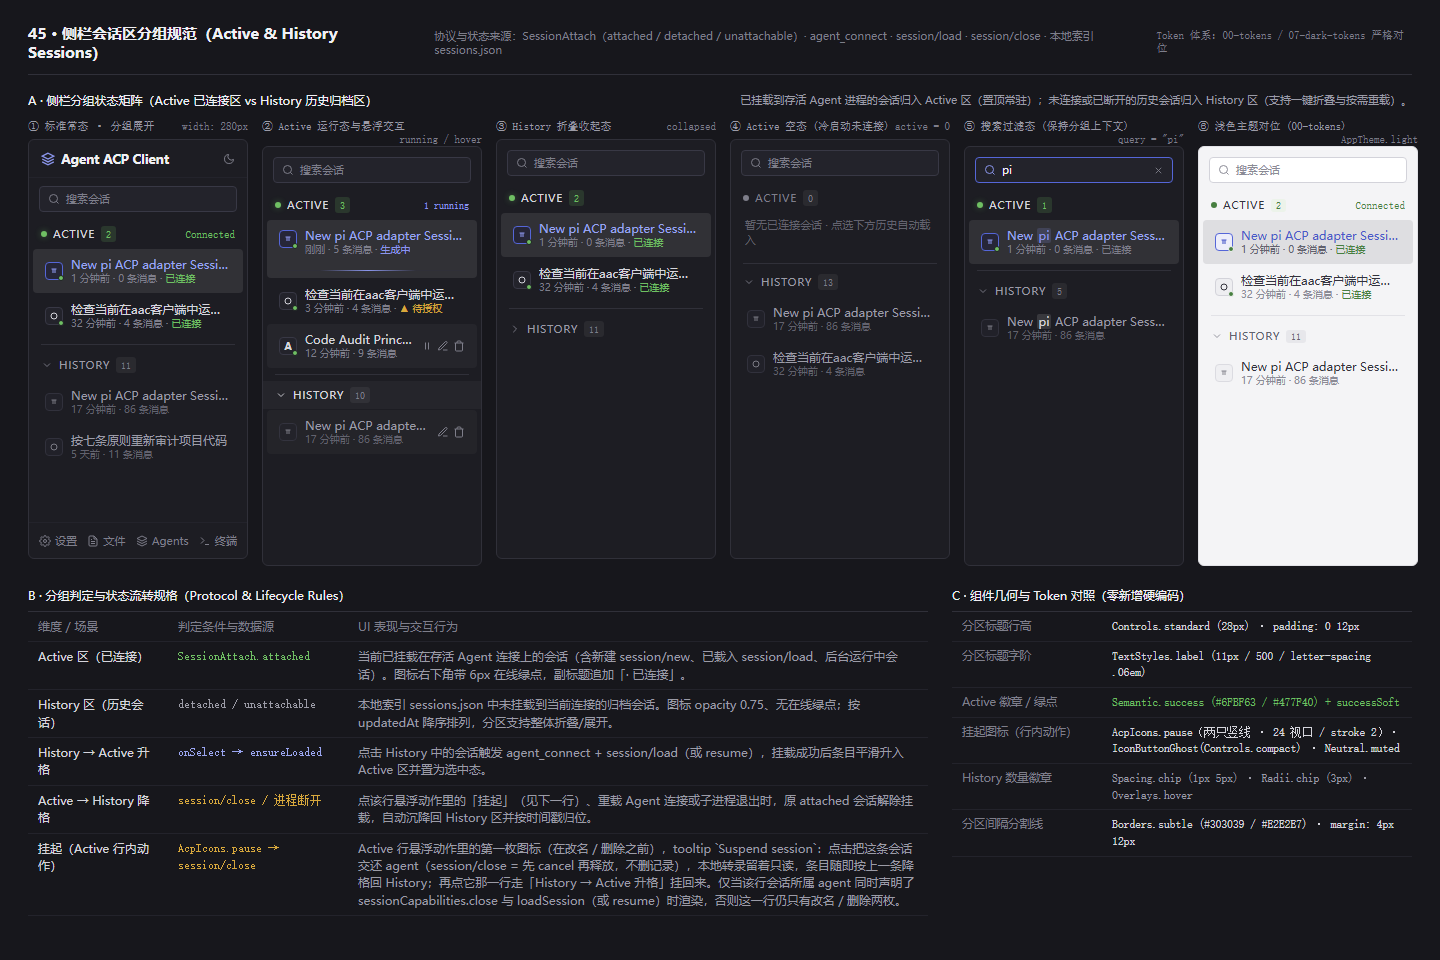
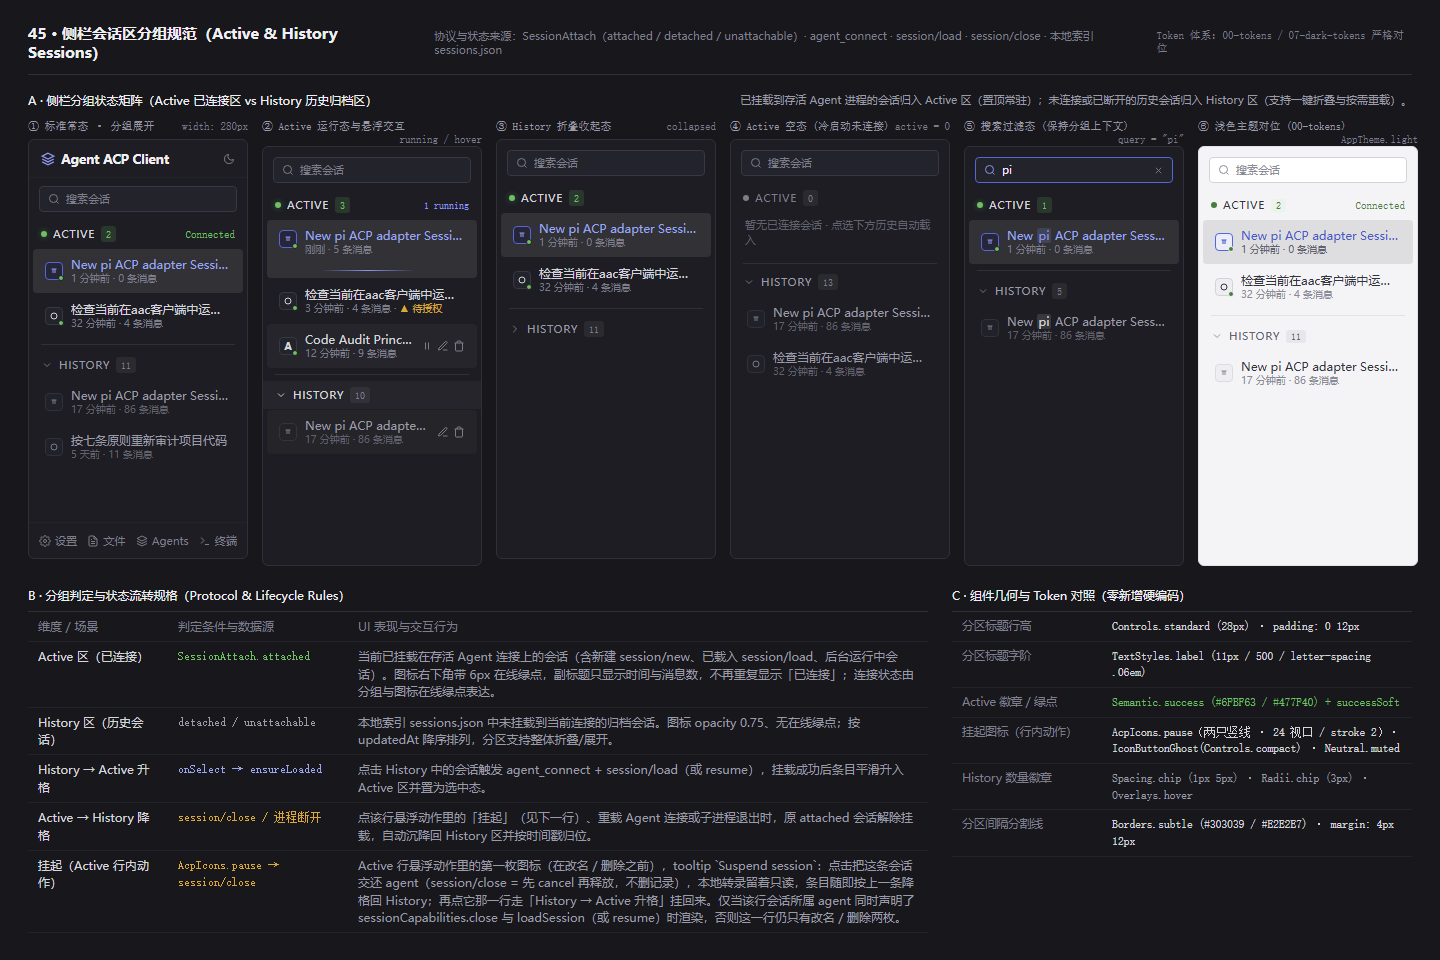
ux(sidebar): remove redundant Active session status labels

diff --git a/design/round-design/45-sidebar-active-history.dc.html b/design/round-design/45-sidebar-active-history.dc.html
@@ -206,7 +206,7 @@
               </div>
               <div style="flex:1;min-width:0">
                 <div style="font-size:12px;font-weight:500;color:#9AA5F0;white-space:nowrap;overflow:hidden;text-overflow:ellipsis">New pi ACP adapter Session</div>
-                <div style="font-size:10px;color:#7E7E8A" class="tabular">1 分钟前 · 0 条消息 · <span style="color:#6FBF63">已连接</span></div>
+                <div style="font-size:10px;color:#7E7E8A" class="tabular">1 分钟前 · 0 条消息</div>
               </div>
             </div>
             <!-- Active 项 2 -->
@@ -217,7 +217,7 @@
               </div>
               <div style="flex:1;min-width:0">
                 <div style="font-size:12px;color:#D5D5DC;white-space:nowrap;overflow:hidden;text-overflow:ellipsis">检查当前在aac客户端中运行的</div>
-                <div style="font-size:10px;color:#7E7E8A" class="tabular">32 分钟前 · 4 条消息 · <span style="color:#6FBF63">已连接</span></div>
+                <div style="font-size:10px;color:#7E7E8A" class="tabular">32 分钟前 · 4 条消息</div>
               </div>
             </div>
 
@@ -289,7 +289,7 @@
               </div>
               <div style="flex:1;min-width:0;align-self:flex-start;margin-top:8px">
                 <div style="font-size:12px;font-weight:500;color:#9AA5F0;white-space:nowrap;overflow:hidden;text-overflow:ellipsis">New pi ACP adapter Session</div>
-                <div style="font-size:10px;color:#7E7E8A" class="tabular">刚刚 · 5 条消息 · <span style="color:#8B96EC">生成中</span></div>
+                <div style="font-size:10px;color:#7E7E8A" class="tabular">刚刚 · 5 条消息</div>
               </div>
               <div class="sweep-line"></div>
             </div>
@@ -375,7 +375,7 @@
               </div>
               <div style="flex:1;min-width:0">
                 <div style="font-size:12px;font-weight:500;color:#9AA5F0;white-space:nowrap;overflow:hidden;text-overflow:ellipsis">New pi ACP adapter Session</div>
-                <div style="font-size:10px;color:#7E7E8A" class="tabular">1 分钟前 · 0 条消息 · <span style="color:#6FBF63">已连接</span></div>
+                <div style="font-size:10px;color:#7E7E8A" class="tabular">1 分钟前 · 0 条消息</div>
               </div>
             </div>
             <!-- Active 项 2 -->
@@ -386,7 +386,7 @@
               </div>
               <div style="flex:1;min-width:0">
                 <div style="font-size:12px;color:#D5D5DC;white-space:nowrap;overflow:hidden;text-overflow:ellipsis">检查当前在aac客户端中运行的</div>
-                <div style="font-size:10px;color:#7E7E8A" class="tabular">32 分钟前 · 4 条消息 · <span style="color:#6FBF63">已连接</span></div>
+                <div style="font-size:10px;color:#7E7E8A" class="tabular">32 分钟前 · 4 条消息</div>
               </div>
             </div>
 
@@ -480,7 +480,7 @@
               </div>
               <div style="flex:1;min-width:0">
                 <div style="font-size:12px;font-weight:500;color:#9AA5F0;white-space:nowrap;overflow:hidden;text-overflow:ellipsis">New <span style="color:#8B96EC;background:rgba(139,150,236,0.18);border-radius:2px;padding:0 2px">pi</span> ACP adapter Session</div>
-                <div style="font-size:10px;color:#7E7E8A" class="tabular">1 分钟前 · 0 条消息 · 已连接</div>
+                <div style="font-size:10px;color:#7E7E8A" class="tabular">1 分钟前 · 0 条消息</div>
               </div>
             </div>
 
@@ -533,7 +533,7 @@
               </div>
               <div style="flex:1;min-width:0">
                 <div style="font-size:12px;font-weight:500;color:#4A59C9;white-space:nowrap;overflow:hidden;text-overflow:ellipsis">New pi ACP adapter Session</div>
-                <div style="font-size:10px;color:#62626E" class="tabular">1 分钟前 · 0 条消息 · <span style="color:#477F40">已连接</span></div>
+                <div style="font-size:10px;color:#62626E" class="tabular">1 分钟前 · 0 条消息</div>
               </div>
             </div>
             <!-- Active 项 2 -->
@@ -544,7 +544,7 @@
               </div>
               <div style="flex:1;min-width:0">
                 <div style="font-size:12px;color:#33333D;white-space:nowrap;overflow:hidden;text-overflow:ellipsis">检查当前在aac客户端中运行的</div>
-                <div style="font-size:10px;color:#8B8B96" class="tabular">32 分钟前 · 4 条消息 · <span style="color:#477F40">已连接</span></div>
+                <div style="font-size:10px;color:#8B8B96" class="tabular">32 分钟前 · 4 条消息</div>
               </div>
             </div>
 
@@ -585,7 +585,7 @@
 
         <div class="spec-cell" style="color:#D5D5DC">Active 区（已连接）</div>
         <div class="spec-cell mono" style="color:#6FBF63">SessionAttach.attached</div>
-        <div class="spec-cell" style="color:#9B9BA6">当前已挂载在存活 Agent 连接上的会话（含新建 session/new、已载入 session/load、后台运行中会话）。图标右下角带 6px 在线绿点，副标题追加「· 已连接」。</div>
+        <div class="spec-cell" style="color:#9B9BA6">当前已挂载在存活 Agent 连接上的会话（含新建 session/new、已载入 session/load、后台运行中会话）。图标右下角带 6px 在线绿点，副标题只显示时间与消息数，不再重复显示「已连接」；连接状态由分组与图标在线绿点表达。</div>
 
         <div class="spec-cell" style="color:#D5D5DC">History 区（历史会话）</div>
         <div class="spec-cell mono" style="color:#9B9BA6">detached / unattachable</div>

diff --git a/test/ui/sidebar_active_history_test.dart b/test/ui/sidebar_active_history_test.dart
@@ -1,6 +1,6 @@
 // 画板 45 · 侧栏 Active（已连接）与 History（历史会话）分组展示及折叠收纳测试。
 // 守住核心契约：
-// 1. 明确区分 ACTIVE 与 HISTORY 两大分组，连接状态在线绿标与「已连接」文字；
+// 1. 明确区分 ACTIVE 与 HISTORY 两大分组，连接状态由在线绿标表达，行内不重复「已连接」文字；
 // 2. HISTORY 支持点击一键折叠/展开；折叠状态下绝无“已折叠”多余文字；
 // 3. 搜索过滤保持分组拓扑上下文；
 // 4. 冷启动/未连接空态轻量提示；
@@ -74,8 +74,9 @@ void main() {
 
       // ACTIVE 数量为 1，HISTORY 数量为 1
       expect(find.text('1'), findsNWidgets(2));
-      // 活跃项副标题包含「已连接」
-      expect(find.textContaining('已连接'), findsOneWidget);
+      // 活跃项副标题不重复「已连接」，保留时间与消息数
+      expect(find.textContaining('已连接'), findsNothing);
+      expect(find.text('5 分钟前 · 2 条消息'), findsNWidgets(2));
       // 分组头包含 Connected 提示
       expect(find.text('Connected'), findsOneWidget);
     });
@@ -278,8 +279,9 @@ void main() {
         matching: find.byWidgetPredicate((w) => w is RichText && w.text.toPlainText().contains('已连接')),
       );
 
-      // 列表中显示已连接
-      expect(rowConnectedText, findsOneWidget);
+      // 挂载后行内不重复显示已连接，在线标识仍由 attached 驱动
+      expect(rowConnectedText, findsNothing);
+      expect(tester.widgetList<SidebarSessionRow>(find.byType(SidebarSessionRow)).single.attached, isTrue);
 
       // 关闭会话后，解除挂载，沉降回 History 区，Active 区变为 0 态
       await c.session.closeSession();

diff --git a/lib/ui/shell/sidebar.dart b/lib/ui/shell/sidebar.dart
@@ -543,7 +543,7 @@ class SidebarSessionRow extends StatelessWidget {
   final SidebarSession session;
   final DateTime now;
 
-  /// 画板 45：会话是否已挂载到存活 Agent 连接上（图标带在线绿点，副标题带「· 已连接」）。
+  /// 画板 45：会话是否已挂载到存活 Agent 连接上（图标带在线绿点，副标题只显示时间与消息数）。
   final bool attached;
 
   final String query;
@@ -698,10 +698,6 @@ class SidebarSessionRow extends StatelessWidget {
                     style: t.TextStyles.meta.copyWith(fontFeatures: const <FontFeature>[FontFeature.tabularFigures()]),
                     children: <InlineSpan>[
                       TextSpan(text: '${relativeTime(session.updatedAt, now: now)} · ${session.messageCount} 条消息'),
-                      if (attached) ...<InlineSpan>[
-                        const TextSpan(text: ' · '),
-                        TextSpan(text: '已连接', style: TextStyle(color: t.Semantic.success)),
-                      ],
                     ],
                   ),
                   maxLines: 1,

diff --git a/iterations/iteration-21.md b/iterations/iteration-21.md
@@ -1,0 +1,21 @@
+# Iteration 21 — Active 会话行精简连接状态文案
+
+> 状态：待合并　起止：2026-09-30 – 待定　基线：`main` = `41ba70c`
+
+## 工作项
+
+| # | 类型 | 工作项 | 来源 | 分支 → 合并提交 | 验证 | 审查 | 状态 |
+|---|---|---|---|---|---|---|---|
+| 1 | ux | Active 会话行移除「· 已连接」，同步画板 45 深浅色 / 搜索样张、规范说明与 PNG；运行态样张同时移除「· 生成中」（客户端原本无此文案）；保留 logo 在线绿点、Active 分组和 Connected 提示 | 所有者 2026-09-30 | `ux/active-session-meta` → 待定 | 622 项 Flutter 测试全过；Rust / 静态门全过；正式源码分析无 error / warning（全仓分析受临时文件阻断，见备注） | 2 轮，均 0 findings | 待合并 |
+
+## 收口
+
+- 构建 / 手测：画板 45 已通过 `render-design.ps1 -Only 45` 重渲并目视确认（1440 × 960）；未执行 release 构建与客户端手测，待所有者安排合并 / 构建；本次不发版。
+- 设计稿补注记：画板与实现同步，无新增偏离。
+
+## 备注
+
+- 修改已有分组与挂载生命周期测试，确认行内文案删除后，分组、消息元信息与 attached 标识保持正确。
+- 验证：`scripts/validate.ps1` 的 Rust build / test / clippy 与所有静态契约门通过，Flutter 全量测试 **622 项全过**。全仓 `flutter analyze --no-fatal-infos` 因另一个会话的 gitignored `ai-output/temporary/cross_agent_analysis_test.dart:8` 的 `unused_import` warning 返回 1（该文件于验证期间出现，不属于本次 diff，未修改）；随后以相同口径运行 `flutter analyze --no-pub --no-fatal-infos lib test`，退出码 0、无 error / warning，20 条既有 info。
+- 首次验证未继承镜像环境而停在下载依赖；使用 `PUB_HOSTED_URL=https://pub.flutter-io.cn` 与 `FLUTTER_STORAGE_BASE_URL=https://storage.flutter-io.cn` 重跑，未改 lockfile 或依赖版本。
+- 独立审查：Cursor CLI + `grok-4.7-high-fast`，`-Scope worktree`；R1 `20260930-172616-review.out.md` 与最终补稿后 R2 `20260930-173244-review.out.md` 均 **0 findings**，无采纳整改。合并时机由所有者决定。

diff --git a/iterations/README.md b/iterations/README.md
@@ -93,5 +93,6 @@
 | 18 | 2026-09-29 起 | 内存冲到 100% 的两处按帧重算：工具卡内容里的 `image` 块不再每帧重解 base64（`Image.memory` 的缓存键跟着 `bytes` 的同一性走）、流量面板的缩进 JSON 改按需算 + 记忆化 | 已合并（未构建；连同已完成的 iter-17 一起落 main） | [`iteration-18.md`](iteration-18.md) |
 | 19 | 2026-09-29 起 | 侧栏 Active 行的「挂起」：把会话交给 agent 的 `session/close`（转录留着只读、不删），它从 Active 沉到 History，再点 History 那一行挂回来（BACKLOG P1「会话菜单的 Resume / Close 没有入口」收尾） | 已合并（未构建；审查 R1–R3：0 条 high；回补画板那轮免审—所有者指定） | [`iteration-19.md`](iteration-19.md) |
 | 20 | 2026-09-29 起 | 去 Claude Code 绑定：规范正本 `CLAUDE.md` → `AGENTS.md`（`CLAUDE.md` 退成指针）、审查执行器改「cursor 硬失败就停下喊人」、上一代 agent 的项目记忆整批内联到 `docs/agent-notes/` | 已合并（未构建；`f752859`；免审—所有者指定：纯文档与注释） | [`iteration-20.md`](iteration-20.md) |
+| 21 | 2026-09-30 起 | Active 会话行移除重复的「已连接」文案，画板 45 同时移除「生成中」 | 待合并（2 轮审查均 0 findings） | [`iteration-21.md`](iteration-21.md) |
 
 **在本流程之前开工的那一批仍按轮次走完**：`rounds/round-1.4.1`（v1.4.0 之后六批 `main` 改动的复审与整改，2026-09-22 发 v1.4.1）在本流程建立之前就已立项并写好任务卡，按原样以轮次收口、登记在 `ROUNDS.md` § 7 的进度表里，不回改编号。按本文 § 0 的判据，这种「一批缺陷的集中复审与整改」以后属于迭代（类型 `fix`）；`ROUNDS.md` § 7 里被封存的是「main 直改」那一行，轮次自己的行照旧。

diff --git a/design/README.md b/design/README.md
@@ -99,6 +99,8 @@
 - **实现先行、设计稿待补** → **已整体改为不补稿**（所有者裁定 2026-09-20）：这些条目连同结论移到 [`DIVERGENCE.md`](DIVERGENCE.md)，按「实现已超越画板 / 画板画错 / 实现有意少做」分三节记着，那几处**以实现为准、PNG 不再是它们的验收基准**（AGENTS.md 规则 3）。看画板之前先看那份清单。
 - 2026-09-17 新增画板 05「转场规格」，并给画板 00 的动效小节补 6 个值。起因是新建 / 切换会话与重载 agent 都是硬切、重载的等待期界面完全不动；原来全套动效资产只有两行时长，不足以实现。简报 `design/round-design/input/revision-02.md`。**画板 05 是纯静态规格图**：分帧只作示意，曲线与数值一律以规格表为准（例：A 组 `t=100ms` 那帧画的是视觉中点，按 `motion.ease` 实际已走完约 87%）。画板 00 的改动只在动效小节，`$preview` 高度由 924 收到 900（与 frame 一致），其余区域零改动。
 
+- 2026-09-30 修订画板 45：Active 会话行副标题移除「· 已连接」，深色 / 浅色与搜索样张同步；运行态样张同时移除「· 生成中」，与客户端已有的扫掠线表达一致。保留图标在线绿点、Active 分组与 Connected 提示。同步更新规范表及 PNG，尺寸与 token 不变。
+
 ## 页面与画板的对应
 
 按 `docs/design.md` § 9 的页面清单：会话工作台、agent 管理、文件面板、设置、ACP 流量调试。每个页面至少一张画板；会话工作台需覆盖 `docs/acp-projection.md` 列出的 15 个 `session/update` 变体、权限请求、elicitation（form / url）、终端、5 种内容块、多计划载荷与压缩卡片。
